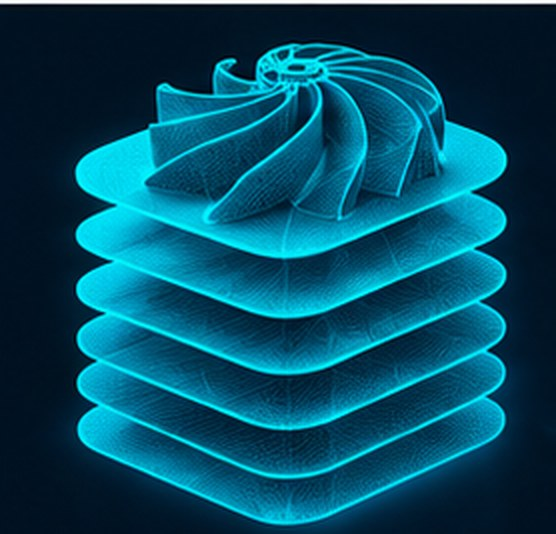
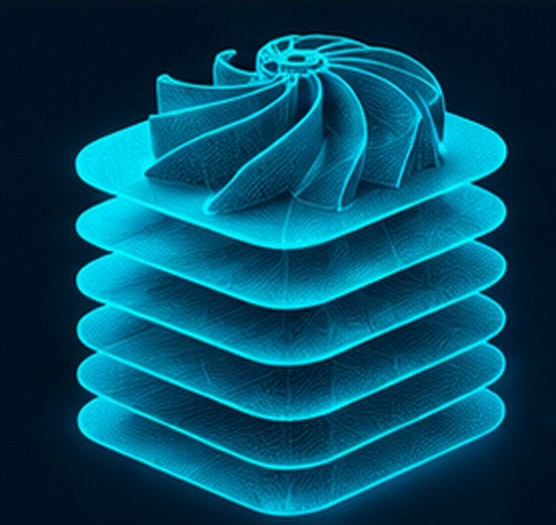
new changes

diff --git a/backend/apps/files/api.py b/backend/apps/files/api.py
@@ -5,7 +5,7 @@ The link is re-validated on use: membership still active, object still present i
 Watermarking (BR-027) is not implemented yet: its policy and feasibility are open (OQ-33).
 """
 from datetime import timedelta
-from urllib.parse import quote
+import secrets
 
 from django.conf import settings
 from django.http import FileResponse, HttpResponseRedirect
@@ -27,7 +27,7 @@ from apps.tenancy.models import Membership, Tenant
 from apps.tenancy.permissions import has_capability
 from apps.tenancy.viewsets import TenantModelViewSet, TenantScopedRelatedField
 
-from .models import Derivative, EngineeringFile, FileVersion
+from .models import Derivative, DownloadLink, EngineeringFile, FileVersion
 from .services import make_link_token, read_link_token, redeem_link, store_version
 from .storage import get_storage
 
@@ -342,7 +342,15 @@ class EngineeringFileViewSet(TenantModelViewSet):
         record(request, "file.download_link_issued", obj=fv, data={"variant": variant, "expires_in": seconds})
         # Public links must use the frontend/IIS origin. The API is also reachable on the
         # internal backend port, but that port is not the browser-facing application URL.
-        url = f"{settings.WEB_BASE_URL.rstrip('/')}/api/v1/downloads/{quote(token, safe='')}/"
+        # Keep the full signed payload server-side and expose only a short opaque handle.
+        handle = secrets.token_urlsafe(24)
+        DownloadLink.objects.create(
+            tenant=request.tenant,
+            created_by=request.user,
+            handle=handle,
+            signed_token=token,
+        )
+        url = f"{settings.WEB_BASE_URL.rstrip('/')}/api/v1/downloads/{handle}/"
         return Response({"url": url, "expires_at": timezone.now() + timedelta(seconds=seconds), "filename": filename})
 
 
@@ -377,6 +385,10 @@ class DownloadView(APIView):
 
     @extend_schema(responses={200: bytes}, tags=["files"])
     def get(self, request, token):
+        link = DownloadLink.objects.filter(handle=token).first()
+        if link is None:
+            raise DomainError("link_invalid", "This download link is not valid.", http_status=403)
+        token = link.signed_token
         data = read_link_token(token, max_age=settings.DOWNLOAD_LINK_SECONDS)
         membership = Membership.objects.select_related("tenant", "user").filter(
             pk=data["m"], user_id=data["u"], tenant_id=data["t"], is_active=True,

diff --git a/backend/apps/files/models.py b/backend/apps/files/models.py
@@ -102,6 +102,20 @@ class LinkRedemption(TenantOwnedModel):
         ordering = ["-created_at"]
 
 
+class DownloadLink(TenantOwnedModel):
+    """Short public handle for a signed download token.
+
+    The signed payload remains unchanged; only its long value is kept server-side so
+    IIS/HTTP.sys never has to receive the compressed token in the URL path.
+    """
+
+    handle = models.CharField(max_length=64, unique=True)
+    signed_token = models.TextField()
+
+    class Meta:
+        ordering = ["-created_at"]
+
+
 class AdminThumbnailConsent(TenantOwnedModel):
     """A client company's decision to let the Aries Admin see its sanitized photo thumbnails in the administrative
     inventory (ADMIN_THUMBNAIL_CONSENT_ENABLED). Append-only: each grant or revocation is a new row, and a database trigger

diff --git a/backend/config/settings.py b/backend/config/settings.py
@@ -146,7 +146,7 @@ X_FRAME_OPTIONS = "DENY"
 SECURE_REFERRER_POLICY = "same-origin"
 if not DEBUG:
     SECURE_PROXY_SSL_HEADER = ("HTTP_X_FORWARDED_PROTO", "https")
-    SECURE_SSL_REDIRECT = env_bool("DJANGO_SSL_REDIRECT", True)
+    SECURE_SSL_REDIRECT = env_bool("DJANGO_SSL_REDIRECT", False)
     SECURE_HSTS_SECONDS = 31536000
 
 # Uploads are streamed to temporary files, never held fully in memory
